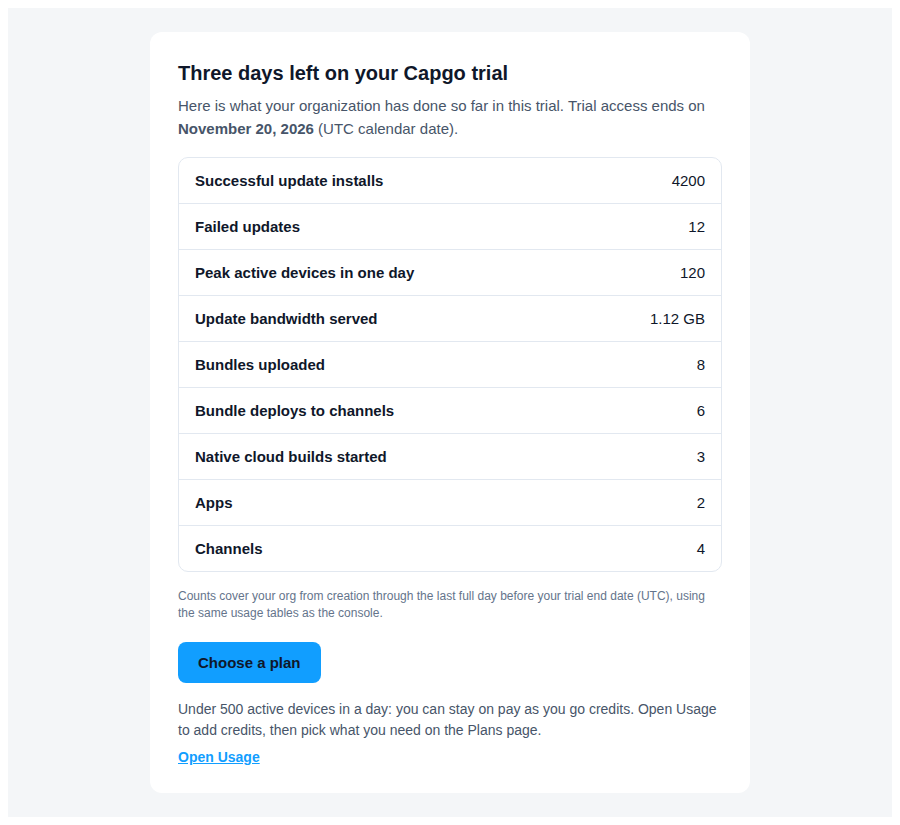
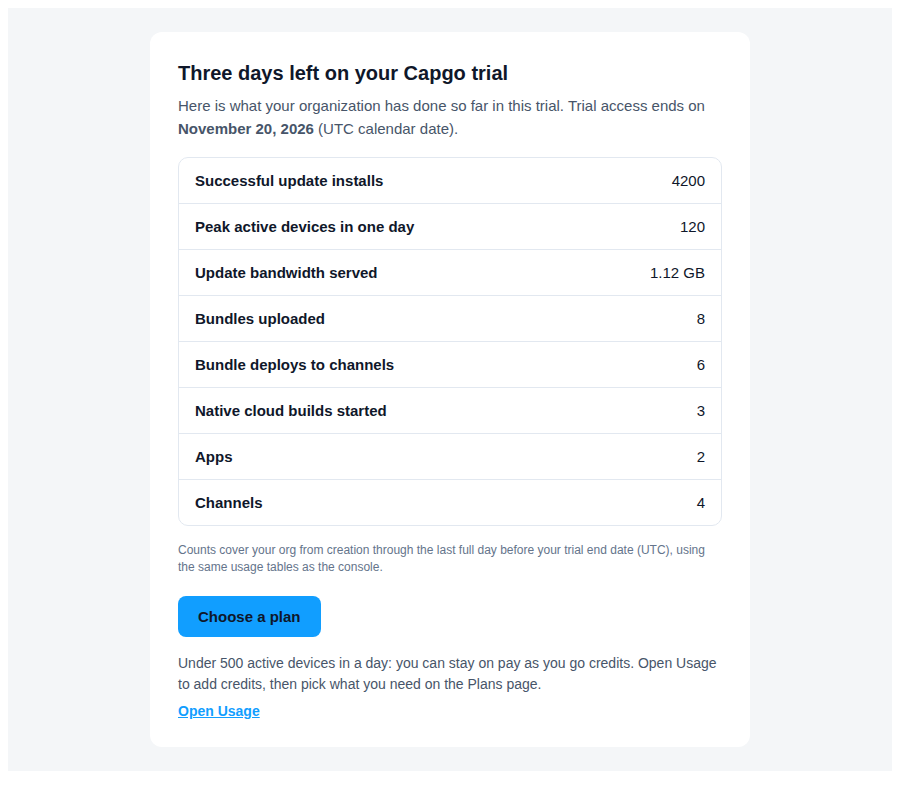
feat(email): drop failed updates from trial recap display
Remove the failed updates achievement row from the usage recap template,
strip show_failed_updates from display flags, render legacy Bento before
screenshots from store HTML, and update PR asset PNGs plus preview script.

diff --git a/supabase/functions/_backend/utils/trial_usage_recap.ts b/supabase/functions/_backend/utils/trial_usage_recap.ts
@@ -32,7 +32,6 @@ export interface TrialUsageRecapDisplayInputs {
 export function trialUsageRecapDisplayFlags(input: TrialUsageRecapDisplayInputs): Pick<
   TrialUsageRecapPayload,
   | 'show_successful_updates'
-  | 'show_failed_updates'
   | 'show_bandwidth'
   | 'show_peak_mau'
   | 'show_bundles_uploaded'
@@ -51,7 +50,6 @@ export function trialUsageRecapDisplayFlags(input: TrialUsageRecapDisplayInputs)
   }
   return {
     show_successful_updates: input.successful_updates > 0,
-    show_failed_updates: input.failed_updates > 0,
     show_bandwidth: bw > 0n,
     show_peak_mau: input.peak_daily_mau > 0,
     show_bundles_uploaded: input.bundles_uploaded > 0,
@@ -109,7 +107,6 @@ export interface TrialUsageRecapPayload {
   docs_upload_url: string
   docs_channels_url: string
   show_successful_updates: boolean
-  show_failed_updates: boolean
   show_bandwidth: boolean
   show_peak_mau: boolean
   show_bundles_uploaded: boolean

diff --git a/supabase/templates/bento/trial_usage_recap_usage.html b/supabase/templates/bento/trial_usage_recap_usage.html
@@ -30,12 +30,6 @@
                 <td style="padding:14px 16px;border-bottom:1px solid #e2e8f0;color:#0f172a;font-size:15px;text-align:right;">{{ event.details.successful_updates }}</td>
               </tr>
               {% endif %}
-              {% if event.details.show_failed_updates %}
-              <tr>
-                <td style="padding:14px 16px;border-bottom:1px solid #e2e8f0;color:#0f172a;font-size:15px;font-weight:600;">Failed updates</td>
-                <td style="padding:14px 16px;border-bottom:1px solid #e2e8f0;color:#0f172a;font-size:15px;text-align:right;">{{ event.details.failed_updates }}</td>
-              </tr>
-              {% endif %}
               {% if event.details.show_peak_mau %}
               <tr>
                 <td style="padding:14px 16px;border-bottom:1px solid #e2e8f0;color:#0f172a;font-size:15px;font-weight:600;">Peak active devices in one day</td>

diff --git a/tests/trial-usage-recap.unit.test.ts b/tests/trial-usage-recap.unit.test.ts
@@ -101,7 +101,6 @@ describe('trial usage recap', () => {
       apps_count: 0,
     } as const
     expect(trialUsageRecapDisplayFlags({ ...baseZeros, successful_updates: 1 }).show_successful_updates).toBe(true)
-    expect(trialUsageRecapDisplayFlags({ ...baseZeros, failed_updates: 1 }).show_failed_updates).toBe(true)
     expect(trialUsageRecapDisplayFlags({ ...baseZeros, bandwidth_bytes: 1n }).show_bandwidth).toBe(true)
     expect(trialUsageRecapDisplayFlags({ ...baseZeros, peak_daily_mau: 1 }).show_peak_mau).toBe(true)
     expect(trialUsageRecapDisplayFlags({ ...baseZeros, bundles_uploaded: 1 }).show_bundles_uploaded).toBe(true)
